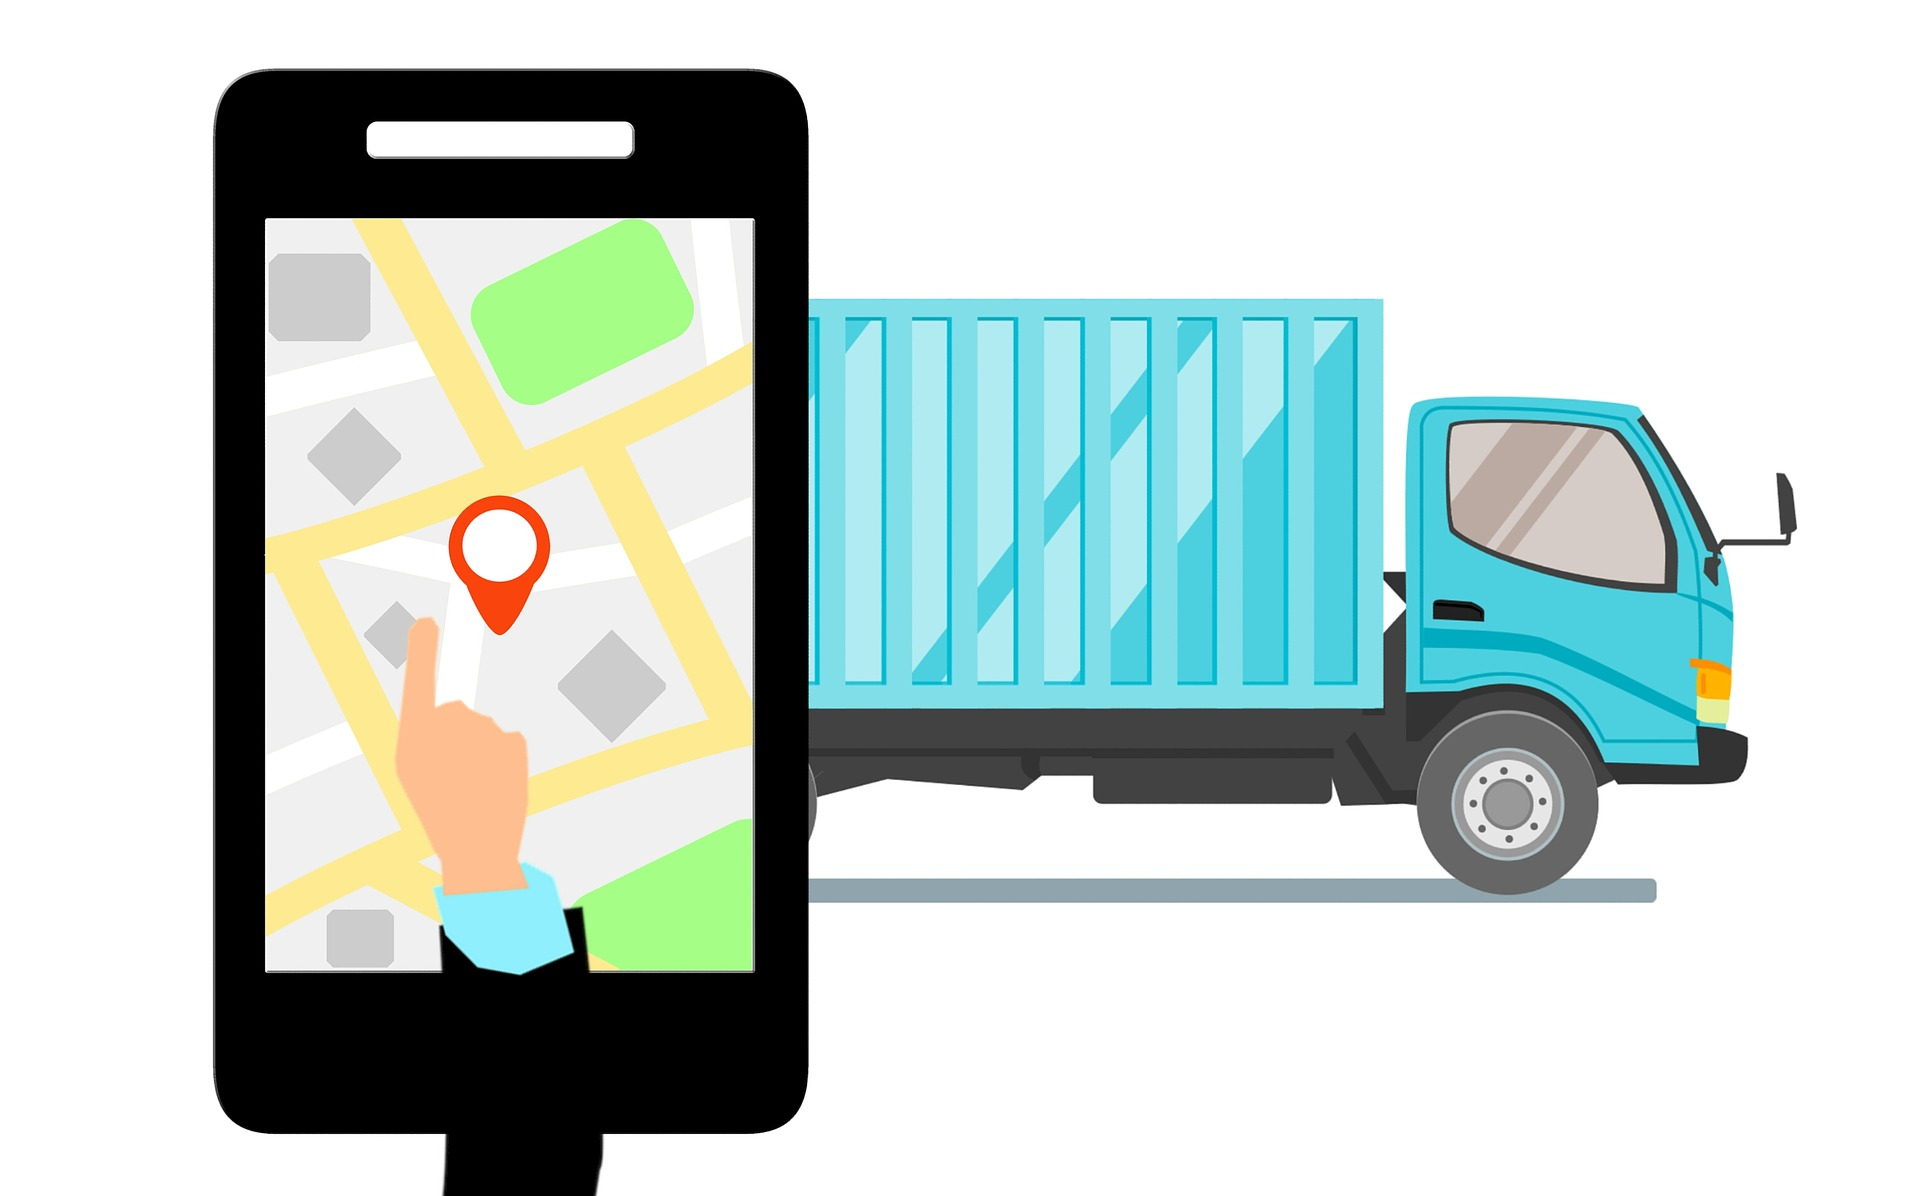
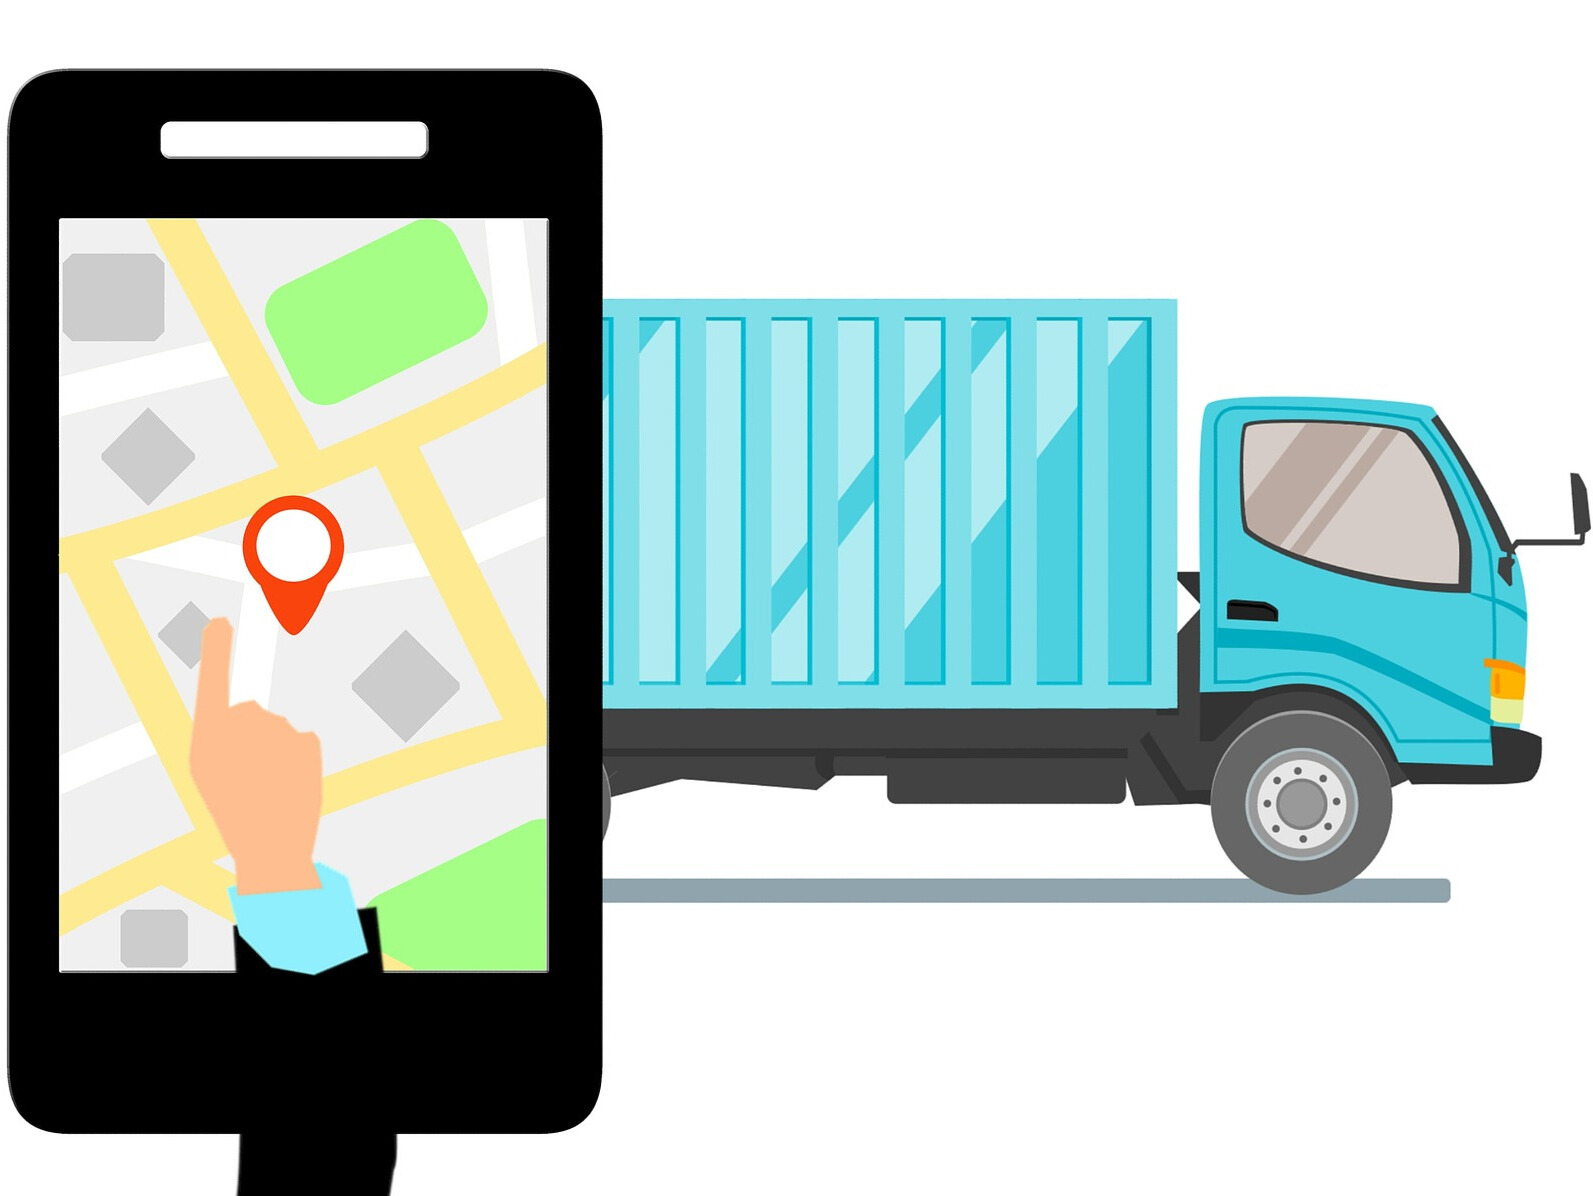
Cambio de relacion de aspecto de las imagenes para que mantengan su proporcionalidad sin importar las dimensiones

diff --git a/Html/index.html b/Html/index.html
@@ -62,7 +62,7 @@
         </div>
         <div class="containerChild">
           <a href="camionero.html">
-            <img src="/Imagenes/Camioner.png" alt="Imagen Camionero" />
+            <img src="/Imagenes/camionero.png" alt="Imagen Camionero" />
             <div class="informacion">
               <h2>Chofer</h2>
               <p>
@@ -74,7 +74,7 @@
         </div>
         <div class="containerChild">
           <a href="seguimiento.html">
-            <img src="/Imagenes/Seguimiento.jpg" alt="Imagen Seguimiento" />
+            <img src="/Imagenes/seguimiento.jpg" alt="Imagen Seguimiento" />
             <div class="informacion">
               <h2>Seguimiento</h2>
               <p>Si usted es cliente y quiere rastrear su envio entre aqui.</p>

diff --git a/Css/index.css b/Css/index.css
@@ -115,7 +115,7 @@ p {
 .containerChild img {
     display: block;
     width: 100%; 
-    height: 300px; 
+    max-height: 300px; 
     margin-bottom: 10px;
     object-fit: cover; 
 }
